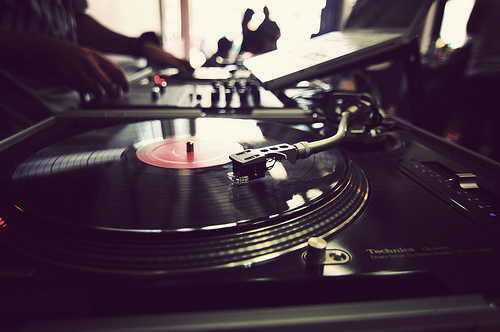
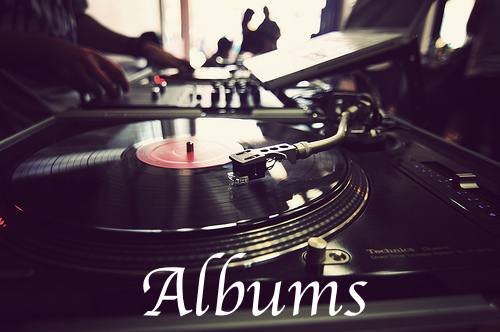
added font styling, fixed minor bugs

Changed region(s): [[0.27, 0.7831, 0.75, 0.9639], [0.42, 0.753, 0.51, 0.8133]]

diff --git a/app/assets/stylesheets/albums.css b/app/assets/stylesheets/albums.css
@@ -10,14 +10,14 @@ nav {
 #navi {
   margin: auto;
   display: flex;
-
 }
 nav a {
   width: 5em;
   height: 1em;
   color: white;
   text-decoration: none;
-  font-family: sans-serif;
+  font-family: 'Poiret One', sans-serif;
+  font-size: 1.2em;
   text-align: center;
   margin: 0.2em 1em;
   font-style: 1em;
@@ -47,6 +47,8 @@ font-size: 1.5em;
   font-weight: bold;
   font-size: 2em;
   color: white;
+  font-family: 'Poiret one', sans-serif;
+
 }
 #albums {
   display: flex;
@@ -68,6 +70,8 @@ font-size: 1.5em;
   text-align: center;
   font-size: 2em;
   color: white;
+  font-family: 'Poiret one', sans-serif;
+
 }
 
 #albums li {
@@ -75,4 +79,6 @@ font-size: 1.5em;
   font-weight: bold;
   margin: 0.3em;
   color: white;
+  font-size: 1.2em;
+  font-family: 'Poiret one', sans-serif;
 }

diff --git a/app/assets/stylesheets/artist.css b/app/assets/stylesheets/artist.css
@@ -12,7 +12,7 @@ p.intro {
   font-size: 1.5em;
   padding: 0.3em;
   text-align: center;
-  font-family: sans-serif;
+  font-family: 'Poiret one', sans-serif;
   margin: 0 0 0 0em;
 }
 
@@ -37,10 +37,11 @@ justify-content: space-around;
 
 #tracks li {
   list-style-type: none;
-  width: 24em;
+  width: 20em;
   font-weight: bold;
-  font-family: sans-serif;
+  font-family: 'Poiret one', sans-serif;
   color: white;
+  font-size: 1.2em;
 }
 
 .img {

diff --git a/app/assets/stylesheets/static.css b/app/assets/stylesheets/static.css
@@ -39,13 +39,14 @@ div.header {
 
 
 #main-block h2 {
- font-family: sans-serif;
+ font-family: 'Poiret One', sans-serif;
  font-weight: 100;
  color: white;
- text-align: left;
- font-size: 1.2em;
+ text-align: left;;
+ font-size: 2em;
  margin-bottom: 0.5em;
  margin-left: 50px;
+
 }
 
 .header h1 {
